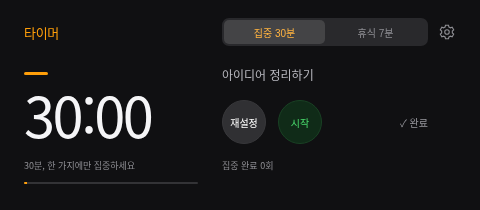
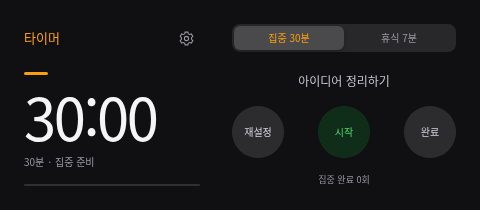
Rebuild compact clock with balanced columns and equal circular controls

diff --git a/app.js b/app.js
@@ -1,3 +1,5 @@
+import { createFloatingClock } from './floating-window.js';
+
 const $=s=>document.querySelector(s);
 let clockMode="pomodoro",floatingWindow=null;
 const uid=()=>crypto.randomUUID();
@@ -42,7 +44,11 @@ function syncFloating(){
   if(target&&source){target.textContent=source.textContent;if(['toggle','pomo-focus','pomo-break'].includes(id))target.className=source.className;}
  }
  for(const id of ['focus-minutes','break-minutes']){const input=doc.getElementById('mini-'+id);if(input&&doc.activeElement!==input)input.value=document.getElementById(id).value;}
- doc.body.dataset.phase=state.pomo.phase;const progress=doc.getElementById('mini-pomo-progress');if(progress)progress.style.width=$('#pomo-progress').style.width;
+ doc.body.dataset.phase=state.pomo.phase;
+ doc.body.dataset.longTime=String($('#timer').textContent.length>5);
+ if(clockMode==='pomodoro'){const p=state.pomo;doc.getElementById('mini-timer-state').textContent=`${p.phase==='focus'?p.focusMinutes:p.breakMinutes}분 · ${p.phase==='focus'?'집중':'휴식'} ${p.started?'중':'준비'}`;}
+ for(const phase of ['focus','break'])doc.getElementById('mini-pomo-'+phase).setAttribute('aria-pressed',String(state.pomo.phase===phase));
+ const taskTitle=doc.getElementById('mini-focus-name');taskTitle.title=taskTitle.textContent;const progress=doc.getElementById('mini-pomo-progress');if(progress)progress.style.width=$('#pomo-progress').style.width;
  doc.title=($('#timer').textContent||'타이머')+' · 차곡';
 }
 $('#float-timer').onclick=async()=>{
@@ -52,12 +58,10 @@ $('#float-timer').onclick=async()=>{
   floatingWindow=pinned?await window.documentPictureInPicture.requestWindow({width:480,height:210}):window.open('','chagok-focus','popup=yes,width=480,height=210');
   if(!floatingWindow){toast('팝업이 차단되었어요. 이 사이트의 팝업을 허용해 주세요.');return}
   const doc=floatingWindow.document;
-  doc.documentElement.lang='ko';doc.head.innerHTML='<meta name="viewport" content="width=device-width,initial-scale=1"><title>차곡 · 시계</title>';
-  const style=doc.createElement('style');style.textContent=`*{box-sizing:border-box}body{margin:0;background:#000;color:#f5f5f7;font-family:-apple-system,BlinkMacSystemFont,"Noto Sans KR",sans-serif;text-align:center;padding:22px}header{display:flex;justify-content:space-between;color:#999;font-size:11px}header b{color:#ff9f0a;font-size:13px;font-weight:500}h2{font-size:18px;margin:28px 0 8px;overflow:hidden;text-overflow:ellipsis;white-space:nowrap}p{font-size:11px;color:#8e8e93}.ring{border:5px solid #ff9f0a;border-radius:50%;width:220px;height:220px;margin:22px auto;display:flex;flex-direction:column;align-items:center;justify-content:center}#mini-timer{font-size:40px;font-weight:200;font-variant-numeric:tabular-nums;letter-spacing:-2px}small{font-size:11px;color:#8e8e93;margin-top:10px}.actions{display:flex;justify-content:space-between;max-width:250px;margin:auto}button{cursor:pointer;border:0;border-radius:50%;width:66px;height:66px;background:#29292b;color:#fff;font-size:12px}.primary{background:#092b16;color:#32d74b}.primary.running{background:#332000;color:#ff9f0a}.complete{width:100%;height:32px;border-radius:8px;margin-top:18px;color:#ff9f0a;background:transparent}`;style.textContent+=`body{padding:14px 18px}header{font-size:9px}header b{font-size:11px}h2{font-size:14px;margin:14px 0 4px}p{font-size:10px;margin:0}.ring{border:0;border-radius:0;width:auto;height:auto;margin:18px auto 14px}#mini-timer{font-size:49px;font-weight:200;color:#ff9f0a;letter-spacing:-2px}small{font-size:10px;margin-top:5px}.actions{max-width:220px}button{width:54px;height:54px;font-size:11px}.complete{margin-top:8px;height:28px;font-size:11px}`;style.textContent+=`header b{color:#ff6b5e}.pomo-tabs{display:flex;gap:5px;justify-content:center;margin:15px 0 0}.pomo-tabs button{width:auto;height:27px;padding:0 16px;border-radius:7px;background:#272729;color:#939399;font-size:10px}.pomo-tabs .selected{background:#ff6b5e;color:#160b0b}h2{margin:12px 0 4px}.ring{margin:12px auto}#mini-timer{color:#ff8478;font-size:52px;letter-spacing:-1px;font-weight:300}.actions{justify-content:center;gap:12px}.actions button{height:34px;border-radius:8px;width:84px}.actions .primary{background:#ff6b5e;color:#190909}.actions .primary.running{background:#502b29;color:#ffb3aa}.pomo-track{height:3px;border-radius:3px;background:#333;margin:10px auto 0;max-width:220px;overflow:hidden}.pomo-track div{height:100%;background:#ff6b5e}#mini-pomo-count{color:#8e8e93;font-size:9px;margin:7px 0}.complete{margin:0;height:22px;color:#aaa}body[data-phase=break] #mini-timer{color:#80cfb5}body[data-phase=break] .pomo-tabs .selected{background:#80cfb5}`;style.textContent+=`.pomo-settings{display:flex;justify-content:center;gap:12px;margin-top:8px;font-size:9px;color:#999}.pomo-settings input{width:37px;background:#272729;color:#eee;border:1px solid #444;border-radius:4px;padding:2px;text-align:center;font-size:10px}h2{margin-top:8px}.pomo-tabs{margin-top:8px}.ring{margin:8px auto}.pomo-track{margin-top:7px}#mini-pomo-count{margin:5px 0}`;style.textContent+=`#mini-focus-course{display:none}h2{margin:7px 0 0}.ring{margin:7px auto}#mini-timer{font-size:48px}small{margin-top:3px}.pomo-track{margin-top:6px}.complete{height:20px}#mini-pomo-count{margin:4px 0}`;style.textContent+=`body{padding:12px 20px;font-family:-apple-system,BlinkMacSystemFont,"Helvetica Neue",sans-serif}header{height:22px;align-items:center}header b{font-size:15px;color:#ff9f0a;font-weight:500}#mini-settings-toggle{background:transparent;width:26px;height:24px;font-size:20px;color:#8e8e93;border-radius:0}.pomo-tabs{position:absolute;top:12px;left:100px;margin:0;gap:0;background:#1c1c1e;border-radius:6px;padding:2px}.pomo-tabs button{background:transparent;height:23px;font-size:9px;padding:0 10px;color:#8e8e93;border-radius:4px}.pomo-tabs .selected,body[data-phase=break] .pomo-tabs .selected{background:#48484a;color:#fff}.pomo-settings{position:absolute;top:43px;left:20px;right:20px;z-index:2;background:#2c2c2e;border:1px solid #48484a;border-radius:10px;padding:16px 8px;box-shadow:0 10px 30px #000b;margin:0;color:#eee;font-size:11px}.pomo-settings[hidden]{display:none}.pomo-settings input{font-size:13px;width:43px;padding:5px}h2{font-size:11px;font-weight:400;color:#8e8e93;margin:12px 0 0}.ring{border:3px solid #ff9f0a;border-radius:50%;width:152px;height:152px;margin:12px auto 10px;position:relative}#mini-timer,body[data-phase=break] #mini-timer{color:#f5f5f7;font-size:34px;letter-spacing:-1.5px;font-weight:200}small{font-size:8px;max-width:130px;margin-top:7px;color:#8e8e93}.actions{justify-content:space-between;max-width:255px;position:relative;margin-top:-4px}.actions button{width:48px;height:48px;border-radius:50%;background:#2c2c2e;font-size:10px}.actions .primary{background:#092b16;color:#30d158}.actions .primary.running{background:#332000;color:#ff9f0a}.pomo-track,#mini-pomo-count{display:none}.complete{position:absolute;bottom:16px;left:110px;width:120px;font-size:9px;color:#8e8e93;height:25px}`;style.textContent+=`body{padding:0;overflow:hidden;background:#101012}header{position:absolute;top:16px;left:23px;right:19px;height:22px}header b{font-size:13px;letter-spacing:-.3px;color:#f5f5f7}#mini-settings-toggle{width:22px;height:22px;display:flex;align-items:center;justify-content:center;color:#8e8e93}.pomo-tabs{top:15px;left:219px;right:55px;height:26px;border-radius:7px;padding:2px;background:#262628}.pomo-tabs button{flex:1;height:22px;font-size:10px;padding:0 9px;border-radius:5px}.pomo-tabs .selected,body[data-phase=break] .pomo-tabs .selected{background:#515154}.ring{position:absolute;left:22px;top:53px;width:174px;height:132px;margin:0;border:0;border-radius:0;align-items:flex-start;justify-content:center}#mini-timer,body[data-phase=break] #mini-timer{font-size:57px;font-weight:200;letter-spacing:-2.5px;line-height:1.2;color:#f5f5f7;white-space:nowrap}small{font-size:10px;margin:5px 0 0;max-width:180px;text-align:left;color:#8e8e93;letter-spacing:0}.ring:before{content:"";width:25px;height:3px;border-radius:2px;background:#ff9f0a;position:absolute;top:10px;left:2px}h2{position:absolute;top:68px;left:220px;right:22px;margin:0;text-align:left;font-size:12px;font-weight:500;color:#b8b8bf;line-height:20px}.actions{position:absolute;top:111px;left:220px;right:21px;max-width:none;display:flex;justify-content:flex-start;gap:15px;margin:0}.actions button{width:48px;height:48px;border-radius:50%;font-size:10px;background:#303033;border:1px solid #38383b}.actions .primary{background:#102b18;color:#48d86b;border:1px solid #194124}.actions .primary.running{background:#382508;color:#ffb340;border:1px solid #51360d}.complete{left:346px;right:20px;top:124px;bottom:auto;width:auto;height:24px;font-size:10px;color:#8e8e93;text-align:left;padding:0}#mini-pomo-count{display:block;position:absolute;left:221px;right:22px;top:175px;margin:0;text-align:left;font-size:8px;letter-spacing:1.5px;color:#636366}.pomo-track{display:block;position:absolute;left:24px;bottom:16px;width:170px;max-width:none;margin:0;height:2px;background:#2c2c2e}.pomo-track div{background:#ff9f0a}.pomo-settings{left:215px;right:20px;top:49px;border-radius:10px;padding:16px 10px;flex-direction:column;gap:9px;align-items:flex-start;box-shadow:0 6px 24px #000b}.pomo-settings input{width:50px}body[data-phase=break] .ring:before,body[data-phase=break] .pomo-track div{background:#30d158}@media(max-width:430px){#mini-timer{font-size:48px}.ring{left:16px;width:155px}.pomo-tabs{left:187px}h2,.actions{left:188px}.complete{left:310px;font-size:9px}#mini-pomo-count{left:188px}.pomo-track{left:18px;width:149px}.pomo-settings{left:181px}}`;style.textContent+=`body{height:100vh;padding:18px 22px;display:flex;flex-direction:column;gap:20px;overflow:hidden}.mini-header,.mini-content{display:grid;grid-template-columns:174px minmax(0,1fr);column-gap:24px;width:100%}.mini-header{height:28px;align-items:center;flex-shrink:0}.mini-header>b{font-size:13px;font-weight:500;color:#f5f5f7;letter-spacing:-.3px}.mini-right-head{display:flex;align-items:center;gap:10px;min-width:0}.mini-right-head .pomo-tabs{position:static;inset:auto;display:flex;flex:1;min-width:0;height:28px;padding:2px;margin:0;background:#29292c;border-radius:7px}.mini-right-head .pomo-tabs button{min-width:0;height:24px;padding:0 8px;font-size:10px;white-space:nowrap}.mini-right-head #mini-settings-toggle{width:18px;height:24px;flex-shrink:0;padding:0;background:none;color:#8e8e93;border:0}.mini-content{flex:1;min-height:0;align-items:stretch}.mini-content .ring{position:static;inset:auto;width:auto;height:auto;margin:0;border:0;border-radius:0;display:flex;flex-direction:column;align-items:flex-start;justify-content:flex-start;gap:0;min-width:0}.mini-content .ring:before{display:none}.mini-content #mini-timer{font-size:56px;line-height:1.05;font-weight:200;letter-spacing:-2.5px;margin-top:-3px}.mini-content small{margin:8px 0 0;font-size:9px;line-height:15px;max-width:100%;white-space:nowrap}.mini-content .pomo-track{position:static;inset:auto;width:100%;max-width:none;margin:14px 0 0;height:2px;flex-shrink:0}.mini-details{display:flex;flex-direction:column;gap:16px;min-width:0}.mini-details h2{position:static;inset:auto;text-align:left;margin:0;font-size:12px;line-height:18px;font-weight:400;color:#b8b8bf;white-space:nowrap;overflow:hidden;text-overflow:ellipsis}.mini-details .actions{position:static;inset:auto;margin:0;display:flex;align-items:center;justify-content:flex-start;gap:12px;max-width:none;height:44px;flex-shrink:0}.mini-details .actions button{width:44px;height:44px;flex-shrink:0;font-size:10px}.mini-details .actions .complete{position:static;inset:auto;flex:1;width:auto;height:28px;border:0;border-radius:0;white-space:nowrap;background:transparent;padding:0;text-align:right;color:#8e8e93;font-size:10px}.mini-details #mini-pomo-count{position:static;inset:auto;margin:0;line-height:12px;text-align:left;font-size:8px;letter-spacing:1px;color:#747479}.pomo-settings{top:52px;left:218px;right:22px}@media(max-width:450px){body{padding:16px}.mini-header,.mini-content{grid-template-columns:155px minmax(0,1fr);column-gap:16px}.mini-content #mini-timer{font-size:50px}.mini-right-head{gap:6px}.mini-right-head .pomo-tabs button{padding:0 4px;font-size:9px}.mini-details .actions{gap:8px}.mini-details .actions button{width:38px;height:38px}.mini-details .actions .complete{font-size:9px}}`;style.textContent+=`.mini-header>b{text-align:left}.mini-details .actions .complete{flex:none;width:auto;padding:0 4px;text-align:left}`;style.textContent+=`body{padding:18px 24px;gap:20px}.mini-header,.mini-content{grid-template-columns:174px minmax(0,1fr);column-gap:24px}.mini-header>b{color:#ff9f0a;font-weight:500}.mini-right-head .pomo-tabs .selected,body[data-phase=break] .mini-right-head .pomo-tabs .selected{background:#444446;color:#ffb340}.mini-content .ring{display:grid;grid-template-rows:3px 58px 12px 2px;row-gap:10px;padding-top:6px;align-content:start}.mini-content .ring:before{content:"";display:block;position:static;inset:auto;width:24px;height:3px;background:#ff9f0a;border-radius:2px}.mini-content #mini-timer{display:block;font-size:56px;line-height:58px;letter-spacing:-2.5px;margin:0;color:#f5f5f7;align-self:start}.mini-content small{display:block;margin:0;line-height:12px;font-size:9px;white-space:nowrap}.mini-content .pomo-track{display:block;position:static;inset:auto;width:174px;height:2px;margin:0;background:#333336;align-self:start}.mini-content .pomo-track div{background:#ff9f0a;min-width:3px}.mini-details{display:grid;grid-template-rows:18px 44px 12px;row-gap:16px;align-content:start}.mini-details h2{line-height:18px;margin:0;align-self:start}.mini-details .actions{height:44px;margin:0;gap:12px;align-self:start}.mini-details #mini-pomo-count{font-size:9px;line-height:12px;letter-spacing:0;color:#8e8e93;margin:0}.mini-details .actions .complete{padding:0;color:#99999f}.pomo-settings{left:222px;right:24px}`;style.textContent+=`.mini-content #mini-timer{text-align:left;width:100%}.mini-content small{transform:translateY(7px)}.mini-content .pomo-track{transform:translateY(7px)}`;style.textContent+=`.mini-details{width:calc(100% - 28px);min-width:0}.mini-details .actions{width:100%;display:grid;grid-template-columns:44px 44px minmax(0,1fr);column-gap:12px;align-items:center}.mini-details .actions button{justify-self:start}.mini-details .actions .complete{justify-self:stretch;min-width:0;width:100%;text-align:right;padding:0}.mini-details h2,.mini-details #mini-pomo-count{width:100%;text-align:left}`;doc.head.append(style);
-  doc.body.innerHTML=`<div class="mini-header"><b>타이머</b><div class="mini-right-head"><div class="pomo-tabs"><button id="mini-pomo-focus">집중</button><button id="mini-pomo-break">휴식</button></div><button id="mini-settings-toggle" aria-label="시간 설정"><svg width="18" height="18" viewBox="0 0 24 24" fill="none" stroke="currentColor" stroke-width="1.5"><circle cx="12" cy="12" r="3"/><path d="m10 3 4 0 .6 2.5 2 .9 2.3-.8 2 3.5-1.8 1.7v2.4l1.8 1.7-2 3.5-2.3-.8-2 .9L14 21h-4l-.6-2.5-2-.9-2.3.8-2-3.5 1.8-1.7v-2.4L3.1 9.1l2-3.5 2.3.8 2-.9Z"/></svg></button></div></div><div class="mini-content"><div class="ring"><span id="mini-timer"></span><small id="mini-timer-state"></small><div class="pomo-track"><div id="mini-pomo-progress"></div></div></div><div class="mini-details"><h2 id="mini-focus-name"></h2><p id="mini-focus-course" hidden></p><div class="actions"><button id="mini-reset">재설정</button><button id="mini-toggle" class="primary">시작</button><button class="complete" id="mini-complete">✓ 완료</button></div><p id="mini-pomo-count"></p></div></div><div class="pomo-settings" id="mini-settings" hidden><label>집중 <input id="mini-focus-minutes" type="number" min="1" max="180" aria-label="집중 시간"> 분</label><label>휴식 <input id="mini-break-minutes" type="number" min="1" max="180" aria-label="휴식 시간"> 분</label></div>`;
-  doc.getElementById('mini-settings-toggle').onclick=()=>{const panel=doc.getElementById('mini-settings');panel.hidden=!panel.hidden};
-  for(const id of ['toggle','reset','complete','pomo-focus','pomo-break'])doc.getElementById('mini-'+id).onclick=()=>{document.getElementById(id).click();};
-  for(const id of ['focus-minutes','break-minutes'])doc.getElementById('mini-'+id).onchange=e=>{setPomoMinutes(id,e.target.value);syncFloating()};
+  createFloatingClock(doc, {
+    onAction: id => { document.getElementById(id).click(); syncFloating(); },
+    onDurationChange: (id, value) => { setPomoMinutes(id, value); syncFloating(); }
+  });
   syncFloating();
   if(!pinned)toast('별도 창을 열었어요. 항상 위 고정은 데스크톱 Chrome·Edge에서 지원됩니다.');
  }catch(error){toast('작은 창을 열지 못했어요. 데스크톱 Chrome·Edge에서 다시 시도해 주세요.');}
@@ -73,7 +77,7 @@ function updateTimer(){
  $('#pomo-count').textContent=`집중 완료 ${p.rounds}회`;
  $('#pomo-progress').style.width=`${Math.min(100,pomoSeconds()/pomoDuration()*100)}%`;
  if(clockMode==='pomodoro'){
-  const remaining=Math.max(0,pomoDuration()-pomoSeconds());$('#timer').textContent=format(remaining).slice(3);$('#timer-state').textContent=isFocus?(p.started?'지금은 집중하는 시간':`${p.focusMinutes}분, 한 가지에만 집중하세요`):(p.started?'잠시 쉬어가세요':`${p.breakMinutes}분 휴식 준비`);$('#toggle').textContent=p.started?'일시 정지':'시작';$('#toggle').classList.toggle('running',Boolean(p.started));if(!isFocus){$('#focus-name').textContent='잠깐의 쉼, 다음 집중을 위해';$('#focus-course').textContent='스트레칭하거나 물 한 잔 마셔보세요.'}
+  const remaining=Math.max(0,pomoDuration()-pomoSeconds());$('#timer').textContent=`${String(Math.floor(remaining/60)).padStart(2,'0')}:${String(Math.floor(remaining)%60).padStart(2,'0')}`;$('#timer-state').textContent=isFocus?(p.started?'지금은 집중하는 시간':`${p.focusMinutes}분, 한 가지에만 집중하세요`):(p.started?'잠시 쉬어가세요':`${p.breakMinutes}분 휴식 준비`);$('#toggle').textContent=p.started?'일시 정지':'시작';$('#toggle').classList.toggle('running',Boolean(p.started));if(!isFocus){$('#focus-name').textContent='잠깐의 쉼, 다음 집중을 위해';$('#focus-course').textContent='스트레칭하거나 물 한 잔 마셔보세요.'}
  }
  syncFloating();
 }

diff --git a/floating-window.js b/floating-window.js
@@ -1,0 +1,152 @@
+// The compact clock has its own layout; it does not inherit the planner's CSS.
+const styles = `
+:root {
+  color-scheme: dark;
+  font-family: -apple-system, BlinkMacSystemFont, "Helvetica Neue", "Noto Sans KR", sans-serif;
+  color: #f5f5f7;
+  background: #101012;
+  --accent: #ff9f0a;
+  --muted: #98989f;
+}
+* { box-sizing: border-box; }
+body { margin: 0; padding: 24px; height: 100dvh; }
+button, input { font: inherit; }
+button { cursor: pointer; -webkit-tap-highlight-color: transparent; }
+button:focus-visible, input:focus-visible { outline: 2px solid var(--accent); outline-offset: 3px; }
+button { border: 0; }
+[hidden] { display: none !important; }
+.clock-layout {
+  height: 100%;
+  display: grid;
+  grid-template-columns: 176px minmax(0, 1fr);
+  grid-template-rows: 28px minmax(0, 1fr);
+  column-gap: 32px;
+  row-gap: 20px;
+}
+.time-heading { display: flex; align-items: center; justify-content: space-between; min-width: 0; }
+.time-heading h1 { margin: 0; color: var(--accent); font-size: 13px; line-height: 20px; font-weight: 500; }
+.settings-toggle {
+  padding: 4px; width: 28px; height: 28px; display: grid; place-items: center;
+  color: var(--muted); background: transparent; border-radius: 7px;
+}
+.settings-toggle:hover { background: #28282b; color: #fff; }
+.pomo-tabs {
+  display: grid; grid-template-columns: repeat(2, minmax(0, 1fr));
+  padding: 2px; margin: 0; border-radius: 8px; background: #28282b;
+}
+.pomo-tabs button {
+  min-width: 0; padding: 0 8px; border-radius: 6px; background: transparent;
+  color: var(--muted); font-size: 10px; line-height: 24px; font-weight: 500; white-space: nowrap;
+}
+.pomo-tabs .selected { background: #4a4a4d; color: var(--accent); box-shadow: 0 1px 3px #0004; }
+.readout { min-width: 0; display: flex; flex-direction: column; align-items: stretch; }
+.time-accent { width: 24px; height: 3px; border-radius: 2px; background: var(--accent); flex-shrink: 0; }
+#mini-timer {
+  margin-top: 9px; color: #f5f5f7; font-size: 58px; line-height: 64px;
+  letter-spacing: -2.5px; font-weight: 200; font-variant-numeric: tabular-nums;
+  white-space: nowrap; text-align: left;
+}
+body[data-long-time="true"] #mini-timer { font-size: 46px; letter-spacing: -2px; }
+#mini-timer-state { margin-top: 7px; font-size: 10px; line-height: 14px; color: var(--muted); }
+.pomo-track { margin-top: auto; height: 2px; background: #303033; border-radius: 2px; flex-shrink: 0; overflow: hidden; }
+#mini-pomo-progress { height: 100%; background: var(--accent); }
+.task-panel { min-width: 0; display: grid; grid-template-rows: 18px 52px 12px; row-gap: 16px; }
+#mini-focus-name {
+  margin: 0; font-size: 12px; line-height: 18px; font-weight: 400; color: #c5c5cb;
+  text-align: center; white-space: nowrap; overflow: hidden; text-overflow: ellipsis;
+}
+.actions { display: flex; align-items: center; justify-content: space-between; }
+.actions button {
+  width: 52px; height: 52px; padding: 0; border-radius: 50%; flex-shrink: 0;
+  color: #d1d1d6; background: #2c2c2f; font-size: 10px; line-height: 16px;
+  box-shadow: inset 0 0 0 1px #ffffff04;
+}
+.actions button:hover { filter: brightness(1.2); }
+.actions .primary { background: #102d19; color: #4bd56e; }
+.actions .primary.running { background: #38260d; color: #ffb340; }
+#mini-pomo-count { margin: 0; font-size: 9px; line-height: 12px; text-align: center; color: var(--muted); }
+.settings-panel {
+  position: absolute; z-index: 2; top: 58px; left: 24px; width: 176px; padding: 14px;
+  border: 1px solid #49494c; border-radius: 12px; background: #242426;
+  box-shadow: 0 8px 24px #0008;
+}
+.settings-heading { display: flex; align-items: center; justify-content: space-between; margin-bottom: 12px; }
+.settings-heading strong { font-size: 11px; font-weight: 500; }
+.settings-heading button { padding: 0; background: none; color: var(--accent); font-size: 11px; }
+.settings-panel label { display: flex; align-items: center; gap: 8px; margin-top: 10px; color: #b4b4ba; font-size: 11px; }
+.settings-panel label span { flex: 1; }
+.settings-panel input { min-width: 0; width: 50px; padding: 4px; background: #333336; color: #fff; border: 1px solid #505054; border-radius: 5px; text-align: center; font-size: 12px; }
+@media (max-width: 459px) {
+  body { padding: 20px; }
+  .clock-layout { grid-template-columns: 40% minmax(0, 1fr); column-gap: 24px; }
+  #mini-timer { font-size: 50px; }
+  .actions button { width: 44px; height: 44px; }
+  .settings-panel { left: 20px; }
+}
+`;
+
+const markup = `
+<main class="clock-layout" aria-label="작은 시계">
+  <div class="time-heading">
+    <h1>타이머</h1>
+    <button class="settings-toggle" id="mini-settings-toggle" aria-label="시간 설정" aria-expanded="false" aria-controls="mini-settings">
+      <svg width="17" height="17" viewBox="0 0 24 24" fill="none" stroke="currentColor" stroke-width="1.5" aria-hidden="true"><circle cx="12" cy="12" r="3"/><path d="m10 3 4 0 .6 2.5 2 .9 2.3-.8 2 3.5-1.8 1.7v2.4l1.8 1.7-2 3.5-2.3-.8-2 .9L14 21h-4l-.6-2.5-2-.9-2.3.8-2-3.5 1.8-1.7v-2.4L3.1 9.1l2-3.5 2.3.8 2-.9Z"/></svg>
+    </button>
+  </div>
+  <div class="pomo-tabs" role="group" aria-label="집중 또는 휴식">
+    <button id="mini-pomo-focus">집중</button>
+    <button id="mini-pomo-break">휴식</button>
+  </div>
+  <section class="readout" aria-label="남은 시간">
+    <div class="time-accent" aria-hidden="true"></div>
+    <span id="mini-timer"></span>
+    <small id="mini-timer-state"></small>
+    <div class="pomo-track" aria-hidden="true"><div id="mini-pomo-progress"></div></div>
+  </section>
+  <section class="task-panel" aria-label="현재 작업">
+    <h2 id="mini-focus-name"></h2>
+    <p id="mini-focus-course" hidden></p>
+    <div class="actions">
+      <button id="mini-reset">재설정</button>
+      <button id="mini-toggle" class="primary">시작</button>
+      <button id="mini-complete">완료</button>
+    </div>
+    <p id="mini-pomo-count"></p>
+  </section>
+</main>
+<section class="settings-panel" id="mini-settings" aria-label="포모도로 시간 설정" hidden>
+  <div class="settings-heading"><strong>시간 설정</strong><button id="mini-settings-done">완료</button></div>
+  <label><span>집중</span><input id="mini-focus-minutes" type="number" min="1" max="180" aria-label="집중 시간"> 분</label>
+  <label><span>휴식</span><input id="mini-break-minutes" type="number" min="1" max="180" aria-label="휴식 시간"> 분</label>
+</section>`;
+
+export function createFloatingClock(doc, { onAction, onDurationChange }) {
+  doc.documentElement.lang = 'ko';
+  doc.head.innerHTML = '<meta name="viewport" content="width=device-width,initial-scale=1"><title>차곡 · 시계</title>';
+  const style = doc.createElement('style');
+  style.textContent = styles;
+  doc.head.append(style);
+  doc.body.innerHTML = markup;
+
+  const panel = doc.getElementById('mini-settings');
+  const trigger = doc.getElementById('mini-settings-toggle');
+  const setSettingsOpen = open => {
+    panel.hidden = !open;
+    trigger.setAttribute('aria-expanded', String(open));
+    if (!open) trigger.focus();
+  };
+  trigger.onclick = () => setSettingsOpen(panel.hidden);
+  doc.getElementById('mini-settings-done').onclick = () => setSettingsOpen(false);
+  doc.addEventListener('keydown', event => {
+    if (event.key === 'Escape' && !panel.hidden) setSettingsOpen(false);
+  });
+  doc.addEventListener('click', event => {
+    if (!panel.hidden && !panel.contains(event.target) && !trigger.contains(event.target)) setSettingsOpen(false);
+  });
+  for (const id of ['toggle', 'reset', 'complete', 'pomo-focus', 'pomo-break']) {
+    doc.getElementById('mini-' + id).onclick = () => onAction(id);
+  }
+  for (const id of ['focus-minutes', 'break-minutes']) {
+    doc.getElementById('mini-' + id).onchange = event => onDurationChange(id, event.target.value);
+  }
+}

diff --git a/README.md b/README.md
@@ -40,4 +40,4 @@ npm start
 
 기본 집중 25분·휴식 5분으로 시작합니다. 본 화면과 작은 창에서 각각 1~180분으로 설정할 수 있으며 브라우저에 자동 저장됩니다. 현재 단계의 시간을 바꾸면 측정을 멈추고 해당 세션을 초기화하며, 누적 작업 시간은 유지합니다. 집중 종료 시 완료 횟수를 기록하고 휴식 준비로 전환합니다. 다음 단계는 시작 버튼을 눌러 진행합니다. 휴식은 작업 집중 시간에 포함되지 않습니다.
 
-작은 시계 창은 480×210 크기의 가로형 레이아웃입니다. 왼쪽에 시간과 진행률, 오른쪽에 작업명과 원형 조작 버튼을 배치했습니다. 우측 상단 설정 아이콘에서 집중·휴식 시간을 변경합니다.
+작은 시계 창은 480×210 크기의 가로형 레이아웃입니다. 왼쪽에 시간과 진행률, 오른쪽에 작업명과 원형 조작 버튼을 배치했습니다. 왼쪽 제목 옆 설정 아이콘에서 집중·휴식 시간을 변경합니다. 재설정·시작·완료는 같은 크기의 원형 버튼으로, 동일한 간격을 두고 배치했습니다.
